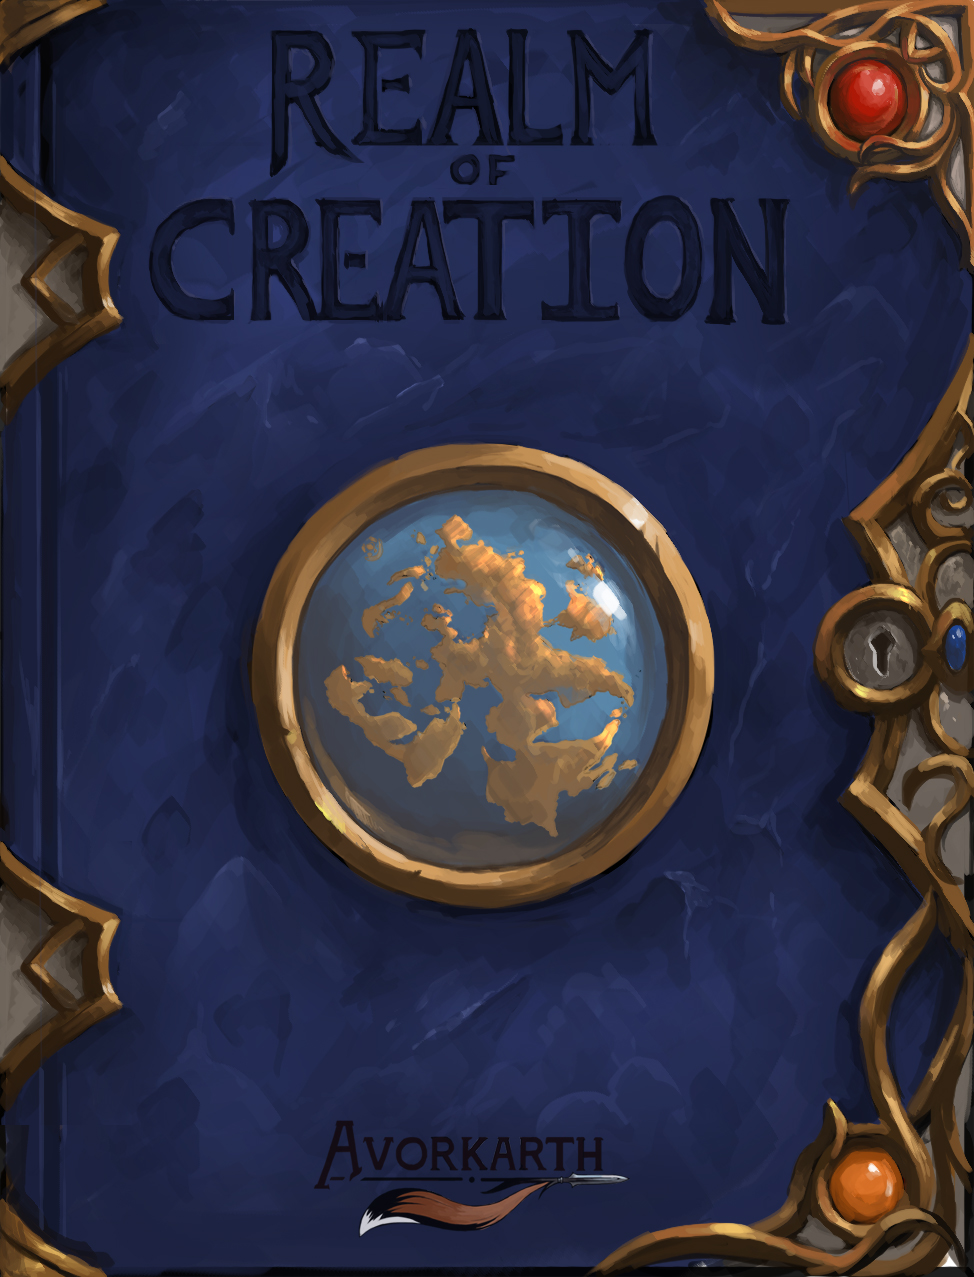
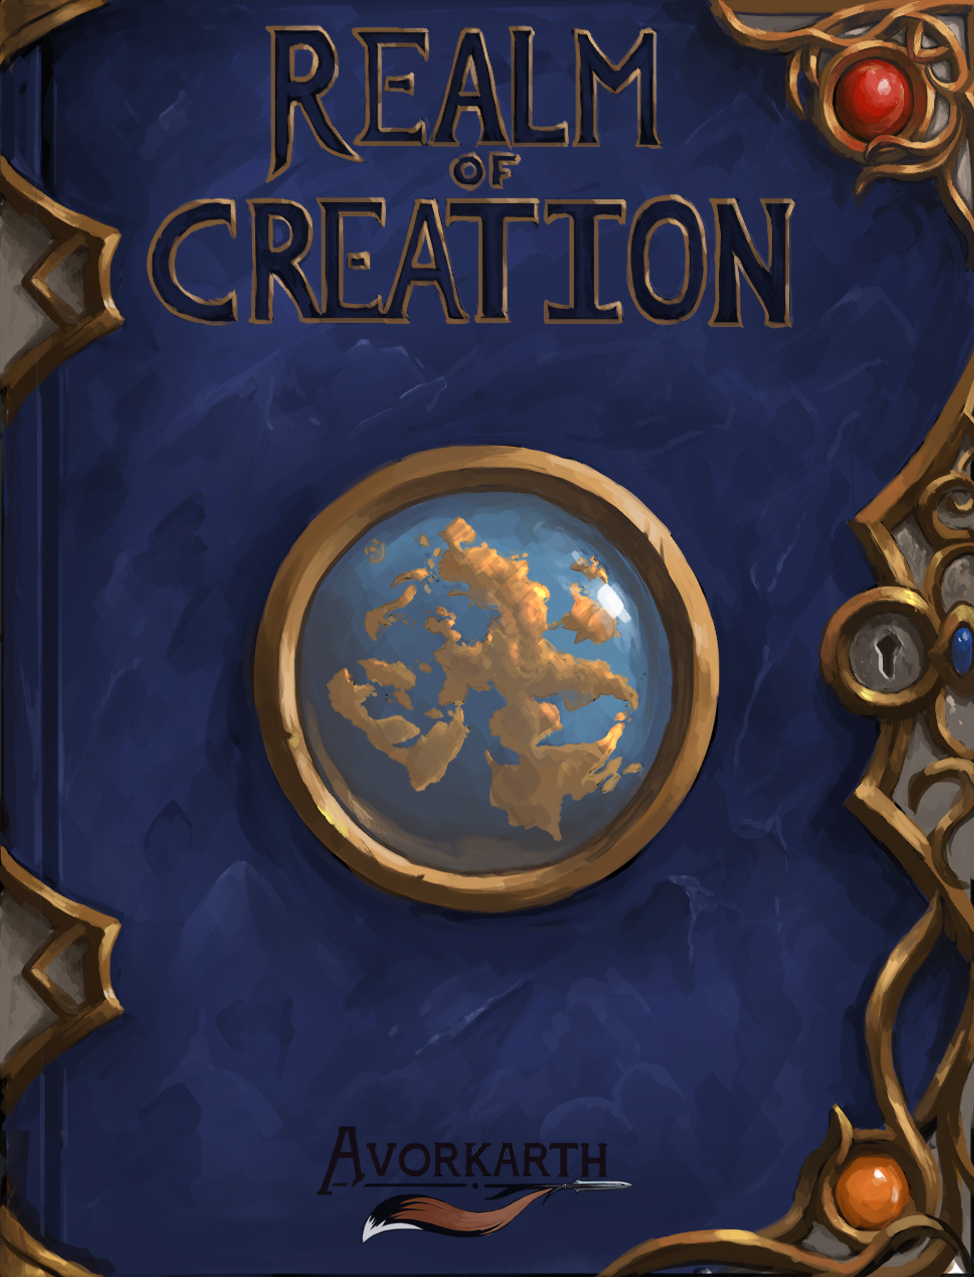
Changelog/Index update + Images for main page

diff --git a/worldlore/creatures/dwarf_runnoc.html b/worldlore/creatures/dwarf_runnoc.html
@@ -1,0 +1,184 @@
+<!DOCTYPE html>
+<html>
+	<head>
+		<title>Dwarf Runnoc - Avorkarth</title><!-- THE TAB -->
+		<meta name="author" content="Julien Ruest" charset="UTF-8">
+		<link href="../../website_css.css" rel="stylesheet" type="text/css">
+	</head>
+<body>
+<div class=container>
+
+<div class="nav">
+	<a href="../../index.html"><img src="../../images/general/AvorkarthLogo_Main_Alpha.png" alt="AVORKARTH"></a>
+
+	<!-- Book Choice -->
+	<a href="../../rulebook/startup.html"><button class="menu">Rulebook</button></a>
+	<a href="../../worldlore.html"><button class="menu">World Lore</button></a>
+	<a href="../../worldlore/creatures.html"><button class="menu submenu picked">Creatures</button></a>
+	<a href="../../worldlore/equipment.html"><button class="menu submenu">Equipment</button></a>
+	<a href="../../worldlore/factions.html"><button class="menu submenu">Factions</button></a>
+	<a href="../../worldlore/languages.html"><button class="menu submenu">Languages</button></a>
+	<a href="../../worldlore/timeline.html"><button class="menu submenu">Timeline</button></a>
+	<a href="../../tale.html"><button class="menu">Tale of the Fifth Age</button></a>
+	<a href="../../adventures.html"><button class="menu">Adventures</button></a>
+	<br><br>
+	<a href="../../charactersheet.html"><button class="menu">Character Sheet</button></a>
+	<a href="../../changelog.html"><button class="menu">Changelog</button></a>
+
+	<!-- Links -->
+    <br><br><br>
+	<a href="https://www.youtube.com/channel/UC2Ca5YXi3kmwn8Zzon34rYA">
+	    <img src="../../images/general/Youtube_Image.png" alt="ConceptArtistJR_Banner"></a>
+	<br>
+	<a href="https://www.patreon.com/avorkarth">
+	    <img src="../../images/general/Patreon_Image.jpg" alt="Patreon_Banner"></a>
+</div>
+
+<!-- Main Page content -->
+<div class="content">
+<img class="img5" src="../../images/general/AvorkarthLogo_Main_White.jpg" alt="AVORKARTH">
+
+<h2>DWARF - RUNNOC</h2>
+<p class="centered">MEDIUM HUMANOID</p>
+
+<p>
+The mighty sons and daughters of the mountain halls are an honorable race,
+their runebound laws etched into their every action. Runnoc are known to be trustworthy 
+adventuring allies whose toughness equates to their rocky homes and who are master
+stoneworkers. Although of a shorter stature, their bulkiness, muscles and fiery spirit 
+make up for it in terms of combat expertise. However, one should be wary of getting into
+an argument with a dwarf, as their stubbornness is legendary.
+</p>
+
+<h2>RUNNOC CULTURE</h2>
+
+<p>
+Runnoc law is absolute. There is no deviation, there is no faltering, the roots of the
+mountains is where the written word is unwavering. Runnoc culture is centered around their 
+language, which almost only deals with absolutes much like mathematical equations. As such, 
+their civilizations are incredibly stubborn, but very fair. Should the word of the law favor 
+one, it will do so without wavering, only ever changing should another truth be unveiled.
+However, while their laws and rules may seem slightly extreme to any outsider, it does 
+not mean that they do not enjoy life. The Runnoc's liking of drinks and foods rivals that
+of the Falgrii and their deep stone halls bear witness to bountiful feasts by roaring fires.
+
+<h2>RUNNOC RELIGION</h2>
+<p>
+While the statues lining the halls of the Runnoc are given to their Kings of old and 
+the memories of the greatest smiths and rulers is prevalent in the Runnoc culture, 
+their worship is given to a singular God, no matter the mountain hall. Volkayn, the greatest 
+smith, the father of all dwarven kin, he who shaped the primal world into the mountains 
+and valleys which house the Runnoc. Entire sub-sections of the mountain caves, often 
+those with the most precious metals and gems, is given to monumental representations of 
+Volkayn and his immortal sons. However, ever since their trade with their above-ground 
+neighbours, the most common religion of Eonna has also found its way into the minds of 
+a few Runnoc.
+</p>
+
+<br>
+<table style="width:80%;">
+<tr><th colspan="3">RELIGION - VOLKAYN, SHAPER OF THE EARTH</th></tr>
+<tr><th>Status</th><th>Name</th><th>Realms</th></tr>
+<tr><td>God</td><td>Volkayn</td><td>Law/Earth</td></tr>
+<tr><td>First Son</td><td>Korth'an</td><td>Flame</td></tr>
+<tr><td>Second Son</td><td>Thraz'an</td><td>Rune</td></tr>
+<tr><td>Third Son</td><td>Drok'az</td><td>Shape</td></tr>
+</table>
+<br>
+<table style="width:80%;">
+<tr><th colspan="3">RELIGION - EONNA, WINGED FLAME OF CREATION</th></tr>
+<tr><th>Status</th><th>Name</th><th>Realms</th></tr>
+<tr><td>Goddess</td><td>Eonna</td><td>Creation</td></tr>
+<tr><td>Archangel</td><td>Nordannon</td><td>Flame/War</td></tr>
+<tr><td>Archangel</td><td>Hildeathir</td><td>Sleep/Death</td></tr>
+<tr><td>Archangel</td><td>Sranvei</td><td>Virtue/Law</td></tr>
+</table>
+
+<h2>RUNNOC DIMORPHISMS</h2>
+<p>
+The male and female of the runnoc species are similar to humanity in their
+differences. Males have a more chiseled build by nature,
+while the female are more rounded and softer shaped. Beyond this, they are very
+much alike in their mind and abilities.
+</p>
+
+<h2>RUNNOC STATISTICS</h2>
+
+<h3>ADULT MALE</h3>
+<h4 class="attribute">GENERAL ATTRIBUTES</h4>
+<table>
+<tr><td>AGE</td>	<td>HEIGHT</td><td>WEIGHT</td>	<td>SIZE         </td></tr>
+<tr><td>25-75</td>	<td>4'11" </td><td>-</td>		<td>1x1<br>Medium</td></tr>
+</table>
+
+<h4 class="attribute">MOVEMENT</h4>
+<table>
+<tr><td>RUNNING     </td><td>CLIMBING  </td><td>SWIMMING      </td><td>FLYING</td></tr>
+<tr><td>3<br>Perfect</td><td>2<br>Rough</td><td>2<br>Rough</td><td>-<br>-</td></tr>
+</table>
+
+<h4 class="attribute">SIGHT DISTANCE THRESHOLDS</h4>
+<table>
+<tr><td>DAYLIGHT</td>	<td>PARTIAL LIGHT</td>	<td>DARKNESS  </td></tr>
+<tr><td>-</td>			<td>5</td>				<td>0</td></tr>
+</table>
+
+<h4 class="attribute">ABILITY SCORES</h4>
+<table>
+<tr><td>STR</td><td>CON</td><td>AGI</td><td>DEX</td><td>INS</td><td>INT</td><td>WILL</td><td>WIS</td><td>CHA</td><td>BEA</td></tr>
+<tr><td>7  </td><td>7  </td><td>5  </td><td>8  </td><td>5  </td><td>7  </td><td>7   </td><td>6  </td><td>6  </td><td>5  </td></tr>
+</table>
+
+<h4 class="attribute">COMBAT ABILITY</h4>
+<table>
+<tr><td>WOUNDS</td><td>INITIATIVE</td><td>ATTACK</td><td>MIGHT</td><td>DODGE</td><td>PARRY</td><td>DAMAGE</td><td>NAT. ARMOUR</td><td>PRESENCE</td></tr>
+<tr><td>7     </td><td>11        </td><td>6     </td><td>7    </td><td>5    </td><td>3    </td><td>2     </td><td>2          </td><td>6       </td></tr>
+</table>
+
+<h4 class="attribute">NATURAL WEAPONS</h4>
+<table>
+<tr><td>WEAPON | TYPE       </td><td>MIGHT</td><td>DAMAGE</td><td>ADDITIONAL</td></tr>
+<tr><td>Punch/Kick | Primary</td><td>-2   </td><td>+0    </td><td>Non-lethal</td></tr>
+</table>
+
+<h3>ADULT FEMALE</h3>
+<h4 class="attribute">GENERAL ATTRIBUTES</h4>
+<table>
+<tr><td>AGE</td>	<td>HEIGHT</td><td>WEIGHT</td>	<td>SIZE         </td></tr>
+<tr><td>25-75</td>	<td>4'08" </td><td>-</td>		<td>1x1<br>Medium</td></tr>
+</table>
+
+<h4 class="attribute">MOVEMENT</h4>
+<table>
+<tr><td>RUNNING     </td><td>CLIMBING  </td><td>SWIMMING      </td><td>FLYING</td></tr>
+<tr><td>3<br>Perfect</td><td>2<br>Rough</td><td>2<br>Rough</td><td>-<br>-</td></tr>
+</table>
+
+<h4 class="attribute">SIGHT DISTANCE THRESHOLDS</h4>
+<table>
+<tr><td>DAYLIGHT</td>	<td>PARTIAL LIGHT</td>	<td>DARKNESS  </td></tr>
+<tr><td>-</td>			<td>5</td>				<td>0</td></tr>
+</table>
+
+<h4 class="attribute">ABILITY SCORES</h4>
+<table>
+<tr><td>STR</td><td>CON</td><td>AGI</td><td>DEX</td><td>INS</td><td>INT</td><td>WILL</td><td>WIS</td><td>CHA</td><td>BEA</td></tr>
+<tr><td>6  </td><td>7  </td><td>5  </td><td>8  </td><td>5  </td><td>7  </td><td>7   </td><td>6  </td><td>6  </td><td>6  </td></tr>
+</table>
+
+<h4 class="attribute">COMBAT ABILITY</h4>
+<table>
+<tr><td>WOUNDS</td><td>INITIATIVE</td><td>ATTACK</td><td>MIGHT</td><td>DODGE</td><td>PARRY</td><td>DAMAGE</td><td>NAT. ARMOUR</td><td>PRESENCE</td></tr>
+<tr><td>7     </td><td>11        </td><td>6     </td><td>6    </td><td>5    </td><td>3    </td><td>2     </td><td>2          </td><td>6       </td></tr>
+</table>
+
+<h4 class="attribute">NATURAL WEAPONS</h4>
+<table>
+<tr><td>WEAPON | TYPE       </td><td>MIGHT</td><td>DAMAGE</td><td>ADDITIONAL</td></tr>
+<tr><td>Punch/Kick | Primary</td><td>-2   </td><td>+0    </td><td>Non-lethal</td></tr>
+</table>
+
+</div>
+</div>
+</body>
+</html>

diff --git a/worldlore/creatures.html b/worldlore/creatures.html
@@ -93,10 +93,10 @@
 <tr><td>HALFLING|LITTLE FOLK</td><td>CIVILIZATION &#9898;&#9898;&#9898;&#9898;</td></tr>
 </table></a>
 
-<table class="creature">
+<a href="creatures/dwarf_runnoc.html"><table class="creature">
 <tr><td>DWARF </td><td>RARITY &#9898;&#9898;&#9898;</td></tr>
 <tr><td>RUNNOC</td><td>CIVILIZATION &#9898;&#9898;&#9898;&#9898;</td></tr>
-</table>
+</table></a>
 
 <a href="creatures/elf_narei.html"><table class="creature">
 <tr><td>ELF  </td><td>RARITY &#9898;&#9898;&#9898;</td></tr>

diff --git a/changelog.html b/changelog.html
@@ -42,6 +42,8 @@
 <p class="note">
 <p class="note"><b>Website</b>
 <br> -- Fixed many minor spelling and placing issues that appeared with the CSS update.
+<br> -- Increased the text size across the entire website after some feedback.
+<br> -- Added the Tale book cover image (not yet finished), and updated the Rulebook and World Lore book covers as well.
 <b>World Lore</b>
 <br> -- Added the Runnoc(Dwarven) lore, culture and stats.
 </p>

diff --git a/index.html b/index.html
@@ -72,6 +72,8 @@
 <p class="note">
 <p class="note"><b>Website</b>
 <br> -- Fixed many minor spelling and placing issues that appeared with the CSS update.
+<br> -- Increased the text size across the entire website after some feedback.
+<br> -- Added the Tale book cover image (not yet finished), and updated the Rulebook and World Lore book covers as well.
 <b>World Lore</b>
 <br> -- Added the Runnoc(Dwarven) lore, culture and stats.
 </p>
